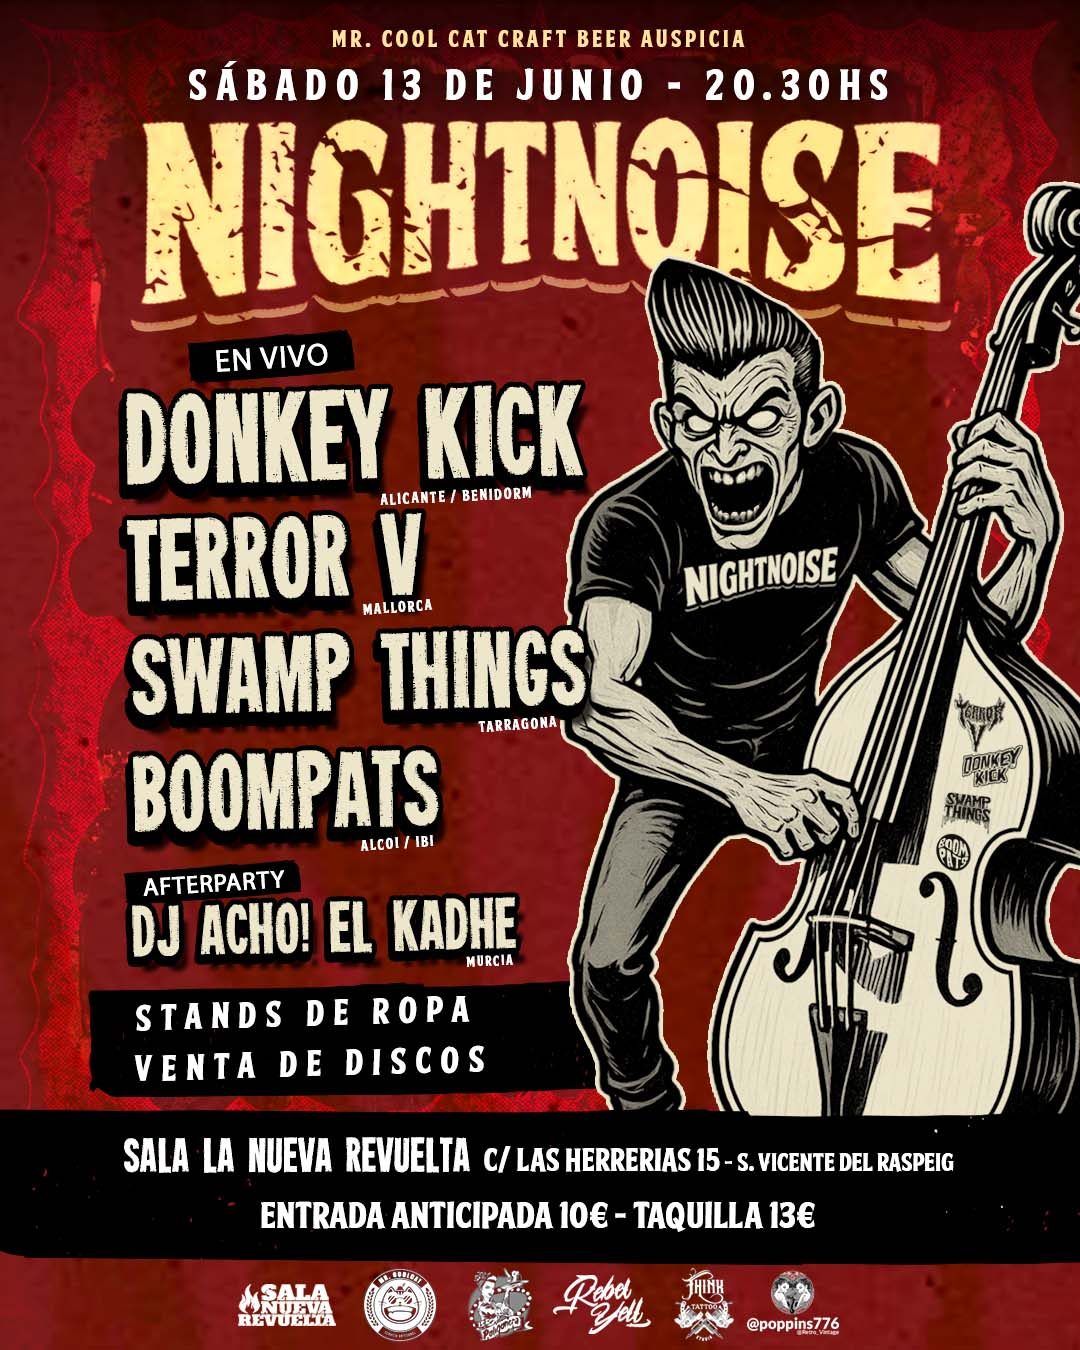
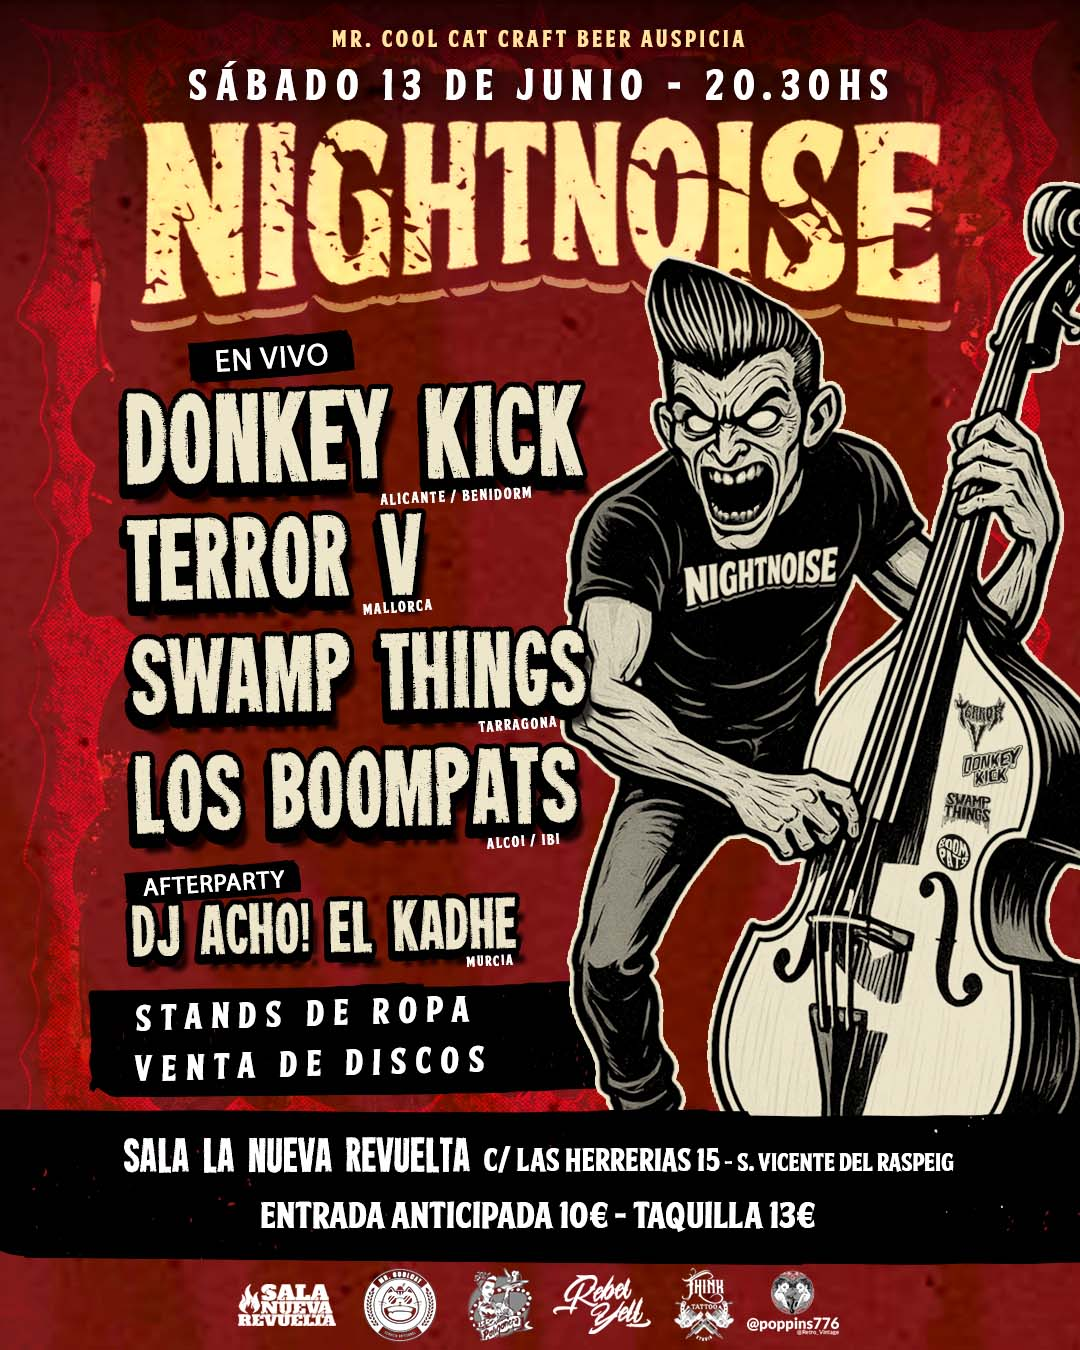
los boomp

Changed region(s): [[0.1222, 0.5289, 0.55, 0.6533]]

diff --git a/src/components/HeroBanner.tsx b/src/components/HeroBanner.tsx
@@ -48,7 +48,7 @@ export default function HeroBanner() {
               <li>Donkey Kick</li>
               <li>Terror V</li>
               <li>Swamp Things</li>
-              <li>Boompats</li>
+              <li>Los Boompats</li>
             </ul>
             <div className=" flex flex-col md:flex-row md:gap-10">
               <article>

diff --git a/src/components/HeroSlider.tsx b/src/components/HeroSlider.tsx
@@ -33,7 +33,7 @@ const imgs = [
   },
   {
     _id: "4",
-    title: "Boompats",
+    title: "Los Boompats",
     imageUrls: [boom],
     description:
       "Dúo de garage 60s directamente desde Alcoi.",
